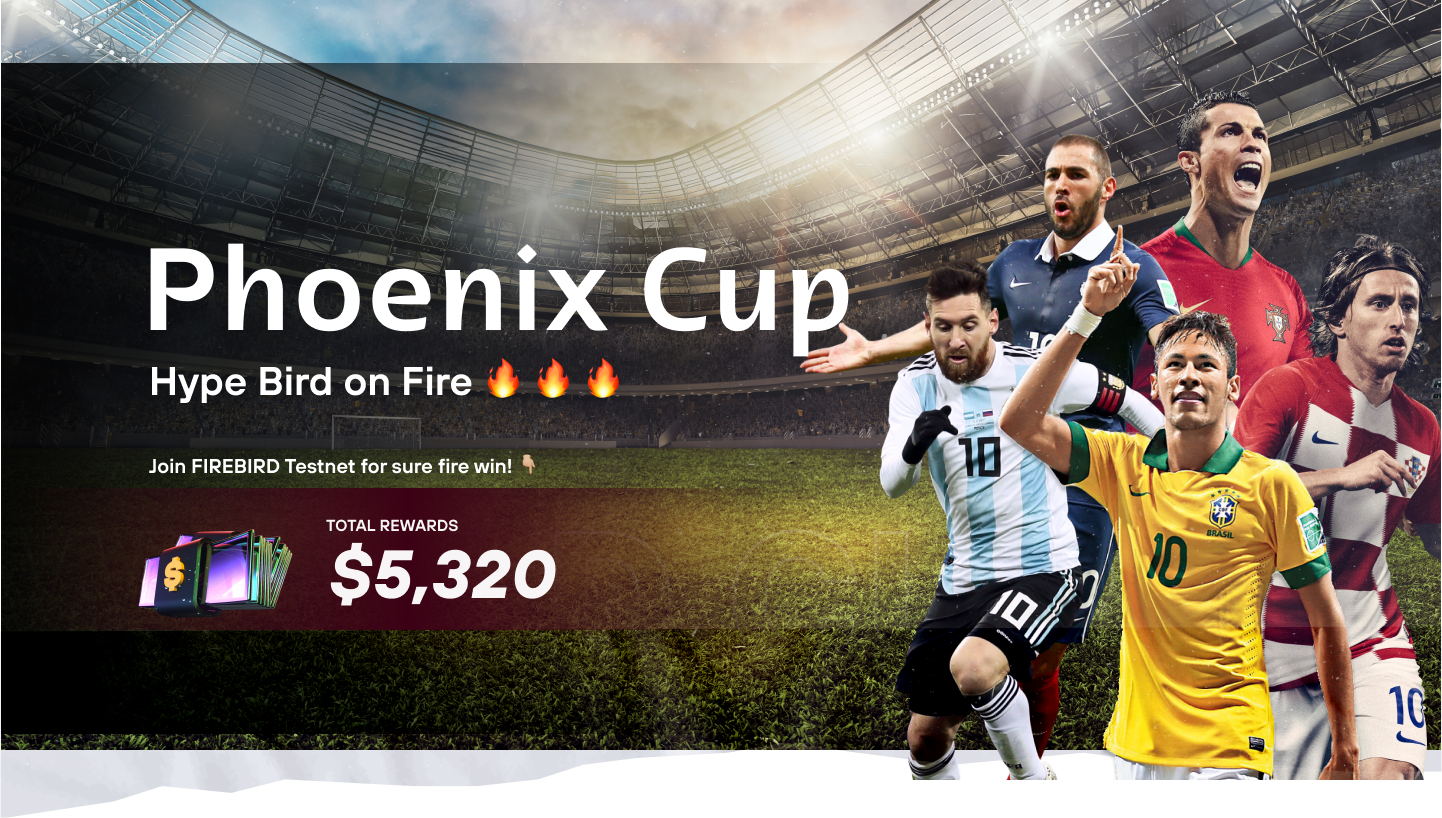
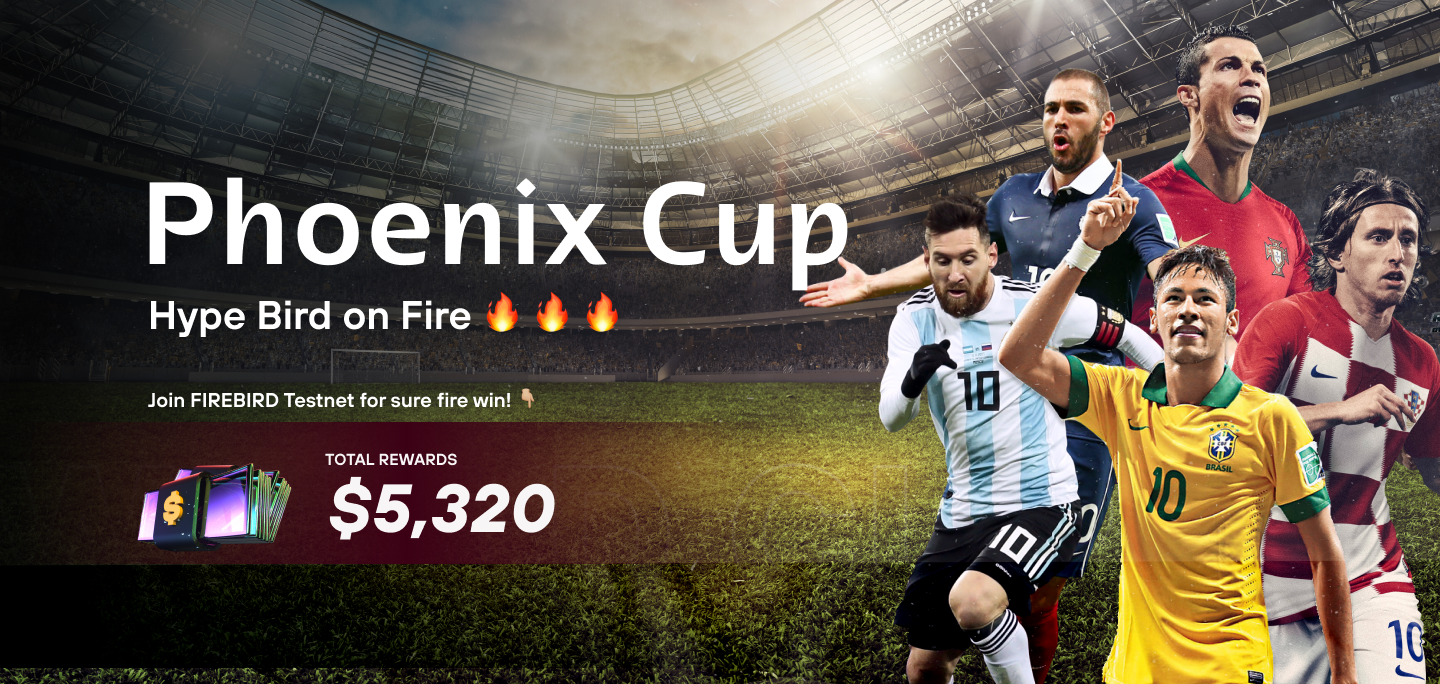
fe: update UI

diff --git a/frontend-user/src/pages/LandingPage/WorldCupSchedule/Schedule/index.tsx b/frontend-user/src/pages/LandingPage/WorldCupSchedule/Schedule/index.tsx
@@ -13,7 +13,14 @@ const schedule = [
 
 const Schedule = () => {
   return (
-    <div className={clsx("pt-[140px] text-white", styles.scheduleBg)}>
+    <div
+      className={clsx(
+        "pt-[80px] text-white",
+        "xs:pt-[100px]",
+        "md:pt-[140px]",
+        styles.scheduleBg,
+      )}
+    >
       <HeadingPrimary
         backroundTitle="SCHEDULE"
         title="2022 Qatar World Cup Schedule"
@@ -23,7 +30,7 @@ const Schedule = () => {
       />
       <div
         className={clsx(
-          "flex mt-[-50px] px-20 relative overflow-hidden",
+          "flex mt-[-80px] md:mt-[-50px] px-12 main:px-20 relative overflow-hidden",
           styles.schedule,
         )}
       >
@@ -62,18 +69,22 @@ const Schedule = () => {
               )}
             >
               {index === 0 && (
-                <img
-                  src="./images/landing-page/football.png"
-                  alt=""
-                  className="translate-x-[-45px]"
-                />
+                <div className="w-16 md:w-[90px]">
+                  <img
+                    src="./images/landing-page/football.png"
+                    alt=""
+                    className="translate-x-[-32px] md:translate-x-[-45px] w-full"
+                  />
+                </div>
               )}
               {index === 5 && (
-                <img
-                  src="./images/landing-page/cup.png"
-                  alt=""
-                  className="text-end translate-x-[35px]"
-                />
+                <div className="w-12 md:w-[70px]">
+                  <img
+                    src="./images/landing-page/cup.png"
+                    alt=""
+                    className="text-end translate-x-[24px] md:translate-x-[35px]"
+                  />
+                </div>
               )}
             </div>
             <div

diff --git a/frontend-user/src/pages/LandingPage/components/headingPrimary.module.scss b/frontend-user/src/pages/LandingPage/components/headingPrimary.module.scss
@@ -1,13 +1,25 @@
 .headingPrimaryGradient {
   font-family: "Inter";
   font-style: normal;
-  font-size: 140px;
-  line-height: 140px;
+  font-size: 70px;
+  line-height: 70px;
   letter-spacing: 4px;
   font-weight: 700;
   user-select: none;
 
   opacity: 0.4;
+  @media (min-width: theme("screens.xs")) {
+    font-size: 90px;
+    line-height: 90px;
+  }
+  @media (min-width: theme("screens.md")) {
+    font-size: 120px;
+    line-height: 120px;
+  }
+  @media (min-width: theme("screens.lg")) {
+    font-size: 140px;
+    line-height: 140px;
+  }
 }
 
 .colorPrimary {
@@ -30,7 +42,19 @@
 .headingPrimary {
   font-family: "TTHoves";
   font-weight: 600;
-  font-size: 36px;
-  line-height: 48px;
+  font-size: 18px;
+  line-height: 24px;
   text-transform: uppercase;
+  @media (min-width: theme("screens.xs")) {
+    font-size: 22px;
+    line-height: 30px;
+  }
+  @media (min-width: theme("screens.md")) {
+    font-size: 26px;
+    line-height: 36px;
+  }
+  @media (min-width: theme("screens.lg")) {
+    font-size: 36px;
+    line-height: 48px;
+  }
 }

diff --git a/frontend-user/src/pages/LandingPage/index.tsx b/frontend-user/src/pages/LandingPage/index.tsx
@@ -7,11 +7,15 @@ import WorldCupSchedule from "./WorldCupSchedule";
 const LangdingPage = () => {
   return (
     <LandingLayout>
-      <div className="w-full">
-        <img src="./images/landing-page/banner.png" alt="" className="w-full" />
+      <div className="w-full pt-20">
+        <img
+          src="./images/landing-page/banner.png"
+          alt=""
+          className="w-full select-none"
+        />
       </div>
 
-      <div className="mt-[-240px] lg:mt-[-280px] flex flex-col w-full">
+      <div className="mt-[-150px] xs:mt-[-180px] md:mt-[-200px] lg:mt-[-220px] flex flex-col w-full">
         <WorldCupSchedule />
         <CalculatedReward />
         <PredictionRule />

diff --git a/frontend-user/src/pages/LandingPage/WorldCupSchedule/MatchListRight/MatchQuestions/OverUnderQuestion/index.tsx b/frontend-user/src/pages/LandingPage/WorldCupSchedule/MatchListRight/MatchQuestions/OverUnderQuestion/index.tsx
@@ -85,7 +85,14 @@ const OverUnderQuestion = (props: QuestionProps) => {
       error={error}
     >
       <div>
-        <div className="flex items-start justify-center w-full min-w-[500px] space-x-2 px-16">
+        <div
+          className={clsx(
+            "flex items-start w-full space-x-2 overflow-x-auto",
+            "xs:justify-center",
+            "md:px-4",
+            "2md:min-w-[520px] 2md:px-16",
+          )}
+        >
           {dataQuestion?.options?.map((option: any, index: number) => (
             <div key={option?.label} className="flex flex-col w-full">
               <BorderBox

diff --git a/frontend-user/src/pages/LandingPage/WorldCupSchedule/MatchListRight/MatchQuestions/OddsQuestion/index.tsx b/frontend-user/src/pages/LandingPage/WorldCupSchedule/MatchListRight/MatchQuestions/OddsQuestion/index.tsx
@@ -82,7 +82,14 @@ const OddsQuestion = (props: QuestionProps) => {
       error={error}
     >
       <div>
-        <div className="flex items-center justify-center w-full min-w-[500px] space-x-2 px-16">
+        <div
+          className={clsx(
+            "flex items-center w-full space-x-2 overflow-x-auto",
+            "xs:justify-center",
+            "md:px-4",
+            "2md:min-w-[520px] 2md:px-16",
+          )}
+        >
           {dataQuestion?.options?.map((option: any, index: number) => (
             <div key={index} className="flex flex-col w-full">
               <BorderBox

diff --git a/frontend-user/src/pages/LandingPage/WorldCupSchedule/MatchListRight/MatchQuestions/components/Question.tsx b/frontend-user/src/pages/LandingPage/WorldCupSchedule/MatchListRight/MatchQuestions/components/Question.tsx
@@ -36,7 +36,7 @@ const Question = (props: QuestionProps) => {
           <Disclosure.Button className="block w-full select-none cursor-pointer p-5">
             <div className="text-16/20 font-tthoves font-semibold flex justify-between items-center text-left">
               <span>{title}</span>
-              <div className="w-[14px]">
+              <div className="ml-2 w-[14px]">
                 <img
                   src="./images/icon-arrow-down.svg"
                   alt=""

diff --git a/frontend-user/src/pages/LandingPage/WorldCupSchedule/Schedule/schedule.module.scss b/frontend-user/src/pages/LandingPage/WorldCupSchedule/Schedule/schedule.module.scss
@@ -1,9 +1,15 @@
 .scheduleBg {
   background-image: url("../../../../assets/images/schedule-bg.png");
   background-repeat: no-repeat;
-  background-position: left;
+  background-position: top right;
   background-size: cover;
-  height: 710px;
+  height: 550px;
+  @media (min-width: theme("screens.sm")) {
+    height: 620px;
+  }
+  @media (min-width: theme("screens.md")) {
+    height: 710px;
+  }
 }
 
 .schedule > div {

diff --git a/frontend-user/src/pages/LandingPage/CalculatedReward/index.tsx b/frontend-user/src/pages/LandingPage/CalculatedReward/index.tsx
@@ -114,7 +114,7 @@ const CalculatedReward = () => {
   };
 
   return (
-    <div className="mt-[120px] px-20 max-w-screen-main w-full mx-auto">
+    <div className="mt-[120px] px-5 main:px-20 max-w-screen-main w-full mx-auto">
       <div className="w-full mx-auto">
         <div className="flex justify-between items-end">
           <div className="flex  flex-col ml-[130px]">

diff --git a/frontend-user/tailwind.config.js b/frontend-user/tailwind.config.js
@@ -13,6 +13,7 @@ module.exports = {
       xs: "640px",
       sm: "768px",
       md: "960px",
+      "2md": "1100px",
       lg: "1280px",
       xl: "1368px",
       "2xl": "1536px",
